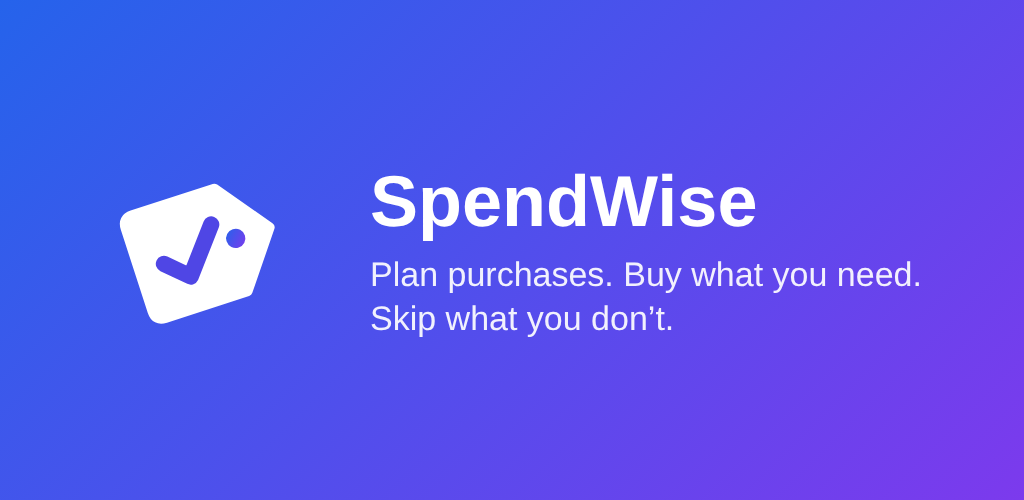
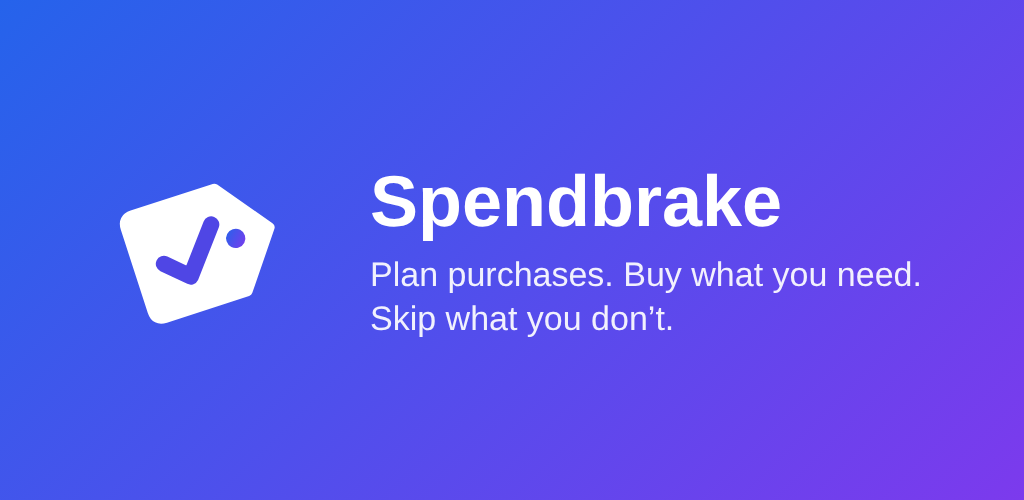
Rename app to Spendbrake
New display name, store listing, Play Store banner, privacy/terms pages
and app IDs (com.stefanvutov.spendbrake). Internal storage key kept so
existing lists survive.

Claude-Session: https://claude.ai/code/session_01WNCNd4JCbx94LhHeX1zt7i

Changed region(s): [[0.5625, 0.33, 0.7812, 0.45]]

diff --git a/src/screens/PaywallModal.tsx b/src/screens/PaywallModal.tsx
@@ -41,7 +41,7 @@ export function PaywallModal({ visible, onClose }: { visible: boolean; onClose: 
     try {
       const r = await buy(pkg);
       if (r === 'purchased') {
-        Alert.alert('Welcome to SpendWise Pro', 'Sale alerts are on. Set daily or weekly checks in Settings.');
+        Alert.alert('Welcome to Spendbrake Pro', 'Sale alerts are on. Set daily or weekly checks in Settings.');
         onClose();
       }
     } catch {
@@ -70,7 +70,7 @@ export function PaywallModal({ visible, onClose }: { visible: boolean; onClose: 
         <Pressable onPress={onClose} style={st.close} accessibilityLabel="Close">
           <Text style={st.closeText}>✕</Text>
         </Pressable>
-        <Text style={st.kicker}>SpendWise Pro</Text>
+        <Text style={st.kicker}>Spendbrake Pro</Text>
         <Text style={st.title}>Buy what you need — when it’s cheapest.</Text>
 
         {FEATURES.map(([icon, title, body]) => (
@@ -86,7 +86,7 @@ export function PaywallModal({ visible, onClose }: { visible: boolean; onClose: 
         {!forSale ? (
           <View style={st.soon}>
             <Text style={st.fTitle}>Coming soon</Text>
-            <Text style={st.fBody}>Everything else in SpendWise stays free.</Text>
+            <Text style={st.fBody}>Everything else in Spendbrake stays free.</Text>
           </View>
         ) : packages === null || busy ? (
           <ActivityIndicator style={{ marginVertical: 24 }} />
@@ -105,7 +105,7 @@ export function PaywallModal({ visible, onClose }: { visible: boolean; onClose: 
             <Button title="Restore purchases" kind="ghost" onPress={onRestore} />
             <Text style={st.legal}>
               Subscriptions renew automatically until cancelled. Cancel anytime in your{' '}
-              {Platform.OS === 'ios' ? 'App Store' : 'Google Play'} account settings at least 24 hours before the period ends. Everything else in SpendWise
+              {Platform.OS === 'ios' ? 'App Store' : 'Google Play'} account settings at least 24 hours before the period ends. Everything else in Spendbrake
               stays free.
             </Text>
             <View style={{ flexDirection: 'row', justifyContent: 'center', gap: 20 }}>

diff --git a/docs/terms.html b/docs/terms.html
@@ -1,19 +1,19 @@
 <!doctype html>
 <html lang="en"><head><meta charset="utf-8"><meta name="viewport" content="width=device-width,initial-scale=1">
-<title>SpendWise Terms of Use</title><link rel="stylesheet" href="style.css"></head>
+<title>Spendbrake Terms of Use</title><link rel="stylesheet" href="style.css"></head>
 <body>
 <h1>Terms of use</h1>
-<p class="muted">SpendWise · Last updated 26 November 2026</p>
+<p class="muted">Spendbrake · Last updated 26 November 2026</p>
 
-<h2>Using SpendWise</h2>
-<p>SpendWise helps you plan purchases. Category suggestions, “do you need it?” prompts and price information are
+<h2>Using Spendbrake</h2>
+<p>Spendbrake helps you plan purchases. Category suggestions, “do you need it?” prompts and price information are
 for guidance only. They aren't financial advice, and the decisions about what to buy are yours.</p>
 
 <h2>Price information</h2>
-<p>Prices found by SpendWise Pro come from public web search results. They can be out of date, incomplete or
+<p>Prices found by Spendbrake Pro come from public web search results. They can be out of date, incomplete or
 wrong. Always confirm the price, product and delivery costs with the retailer before you buy.</p>
 
-<h2>SpendWise Pro subscription</h2>
+<h2>Spendbrake Pro subscription</h2>
 <ul>
   <li>Pro is an optional auto-renewing subscription, billed through your App Store or Google Play account.</li>
   <li>It renews automatically unless you cancel at least 24 hours before the end of the current period. You can cancel anytime in your store account settings.</li>
@@ -23,7 +23,7 @@ wrong. Always confirm the price, product and delivery costs with the retailer be
 <p>On iOS, Apple's standard <a href="https://www.apple.com/legal/internet-services/itunes/dev/stdeula/">End User License Agreement</a> also applies.</p>
 
 <h2>Availability</h2>
-<p>We work to keep SpendWise running but can't guarantee it will always be available or error-free. The app is
+<p>We work to keep Spendbrake running but can't guarantee it will always be available or error-free. The app is
 provided “as is” to the extent the law allows.</p>
 
 <h2>Contact</h2>

diff --git a/docs/privacy.html b/docs/privacy.html
@@ -1,12 +1,12 @@
 <!doctype html>
 <html lang="en"><head><meta charset="utf-8"><meta name="viewport" content="width=device-width,initial-scale=1">
-<title>SpendWise Privacy Policy</title><link rel="stylesheet" href="style.css"></head>
+<title>Spendbrake Privacy Policy</title><link rel="stylesheet" href="style.css"></head>
 <body>
 <h1>Privacy policy</h1>
-<p class="muted">SpendWise · Last updated 26 November 2026</p>
+<p class="muted">Spendbrake · Last updated 26 November 2026</p>
 
-<p>SpendWise is a purchase planner. We built it to collect as little as possible. This policy explains what
-happens to your information in the free version and in the optional SpendWise Pro subscription.</p>
+<p>Spendbrake is a purchase planner. We built it to collect as little as possible. This policy explains what
+happens to your information in the free version and in the optional Spendbrake Pro subscription.</p>
 
 <h2>Free version</h2>
 <ul>
@@ -16,7 +16,7 @@ happens to your information in the free version and in the optional SpendWise Pr
   <li>“Search stores for this” opens a web search in your browser. That website's own privacy policy applies.</li>
 </ul>
 
-<h2>SpendWise Pro (optional subscription)</h2>
+<h2>Spendbrake Pro (optional subscription)</h2>
 <p>If you subscribe, these features need to send some information to our server:</p>
 <ul>
   <li><strong>Price checks and AI suggestions:</strong> the names, notes and target prices of the items being checked, plus the country and currency you chose, are sent to our server. Our server uses Anthropic's AI service, which searches the web for current prices. We don't send your name, email or contacts.</li>
@@ -38,7 +38,7 @@ happens to your information in the free version and in the optional SpendWise Pr
 anonymous ID, email us and we'll remove them.</p>
 
 <h2>Children</h2>
-<p>SpendWise isn't directed at children under 13, and we don't knowingly collect information from them.</p>
+<p>Spendbrake isn't directed at children under 13, and we don't knowingly collect information from them.</p>
 
 <h2>Changes</h2>
 <p>If this policy changes, we'll update this page and the date above.</p>

diff --git a/src/screens/SettingsModal.tsx b/src/screens/SettingsModal.tsx
@@ -78,7 +78,7 @@ export function SettingsModal({ visible, onClose }: { visible: boolean; onClose:
         </Section>
         ) : proForSale() ? (
           <View style={st.pro}>
-            <Text style={st.proTitle}>SpendWise Pro</Text>
+            <Text style={st.proTitle}>Spendbrake Pro</Text>
             <Text style={st.hint}>
               Automatic price checks at major stores in your country, with an alert when something on your list goes on
               sale, plus AI category suggestions. Or tap any item and use “Search stores for this”.
@@ -116,7 +116,7 @@ export function SettingsModal({ visible, onClose }: { visible: boolean; onClose:
         </Section>
 
         {__DEV__ && (
-        <Section title="Developer: server address" hint="Only shown in development builds. Enter a SpendWise server address to test Pro features.">
+        <Section title="Developer: server address" hint="Only shown in development builds. Enter a Spendbrake server address to test Pro features.">
           <TextInput
             style={st.input}
             value={settings.apiBaseUrl}

diff --git a/server/src/index.ts b/server/src/index.ts
@@ -38,7 +38,7 @@ const num = (v: unknown) => (typeof v === 'number' && Number.isFinite(v) && v >=
 async function requirePro(req: http.IncomingMessage): Promise<string> {
   const userId = str(req.headers['x-user-id'], 128);
   if (!userId) throw new HttpError(401, 'Missing user id');
-  if (!(await hasPro(userId))) throw new HttpError(402, 'SpendWise Pro subscription required', 'subscription_required');
+  if (!(await hasPro(userId))) throw new HttpError(402, 'Spendbrake Pro subscription required', 'subscription_required');
   return userId;
 }
 
@@ -141,4 +141,4 @@ const server = http.createServer(async (req, res) => {
   }
 });
 
-server.listen(PORT, () => console.log(`SpendWise server on http://localhost:${PORT}`));
+server.listen(PORT, () => console.log(`Spendbrake server on http://localhost:${PORT}`));

diff --git a/src/store.ts b/src/store.ts
@@ -126,6 +126,7 @@ export const useStore = create<State>()(
       updateSettings: (patch) => set((s) => ({ settings: { ...s.settings, ...patch } })),
     }),
     {
+      // Storage key kept from the app's working title so existing lists survive the rename.
       name: 'spendwise-v1',
       storage: createJSONStorage(() => AsyncStorage),
       version: 2,
@@ -142,7 +143,7 @@ export const useStore = create<State>()(
 );
 
 /**
- * SpendWise Pro = AI suggestions + automatic price checks. Both cost money per use, so they need
+ * Spendbrake Pro = AI suggestions + automatic price checks. Both cost money per use, so they need
  * the hosted server AND a paid unlock. Free users get everything else, fully on-device.
  * Development builds skip the payment check so the paid features can be tested.
  */

diff --git a/src/domain/types.ts b/src/domain/types.ts
@@ -101,11 +101,11 @@ export interface Settings {
   scanFrequency: ScanFrequency;
   includeInternational: boolean;
   staleThreshold: StaleThreshold;
-  /** Base URL of the SpendWise server (AI assessment + price scanning). */
+  /** Base URL of the Spendbrake server (AI assessment + price scanning). */
   apiBaseUrl: string;
   lastScanAt?: string;
   lastStaleNotifyAt?: string;
-  /** Set by the in-app purchase flow once SpendWise Pro is sold (not yet). */
+  /** Set by the in-app purchase flow once Spendbrake Pro is sold (not yet). */
   proUnlocked?: boolean;
   /** Store page where the person can cancel or change their subscription. */
   manageSubscriptionUrl?: string;

diff --git a/docs/index.html b/docs/index.html
@@ -1,8 +1,8 @@
 <!doctype html>
 <html lang="en"><head><meta charset="utf-8"><meta name="viewport" content="width=device-width,initial-scale=1">
-<title>SpendWise</title><link rel="stylesheet" href="style.css"></head>
+<title>Spendbrake</title><link rel="stylesheet" href="style.css"></head>
 <body>
-<h1>SpendWise</h1>
+<h1>Spendbrake</h1>
 <p>Plan purchases, sort needs from wants, and buy what you need when it's cheapest.</p>
 <ul>
   <li><a href="privacy.html">Privacy policy</a></li>

diff --git a/src/services/purchases.ts b/src/services/purchases.ts
@@ -4,7 +4,7 @@ import Purchases, { CustomerInfo, PurchasesPackage, PURCHASES_ERROR_CODE } from 
 import { useStore } from '../store';
 
 /**
- * SpendWise Pro subscriptions via RevenueCat, which wraps Apple's and Google's billing.
+ * Spendbrake Pro subscriptions via RevenueCat, which wraps Apple's and Google's billing.
  * Public SDK keys go in app.json → expo.extra (they're safe to ship in the app).
  * With no key set, the app runs as the free version and Pro stays hidden.
  */

diff --git a/src/services/api.ts b/src/services/api.ts
@@ -14,7 +14,7 @@ export class ApiError extends Error {
 }
 
 async function request<T>(settings: Settings, method: 'GET' | 'POST', path: string, body: unknown, timeoutMs: number): Promise<T> {
-  if (!proActive(settings)) throw new Error('SpendWise Pro not active (free mode)');
+  if (!proActive(settings)) throw new Error('Spendbrake Pro not active (free mode)');
   const controller = new AbortController();
   const timer = setTimeout(() => controller.abort(), timeoutMs);
   try {

diff --git a/src/screens/HomeScreen.tsx b/src/screens/HomeScreen.tsx
@@ -65,7 +65,7 @@ export function HomeScreen() {
   return (
     <SafeAreaView style={st.safe} edges={['top']}>
       <View style={st.header}>
-        <Text style={st.appTitle}>SpendWise</Text>
+        <Text style={st.appTitle}>Spendbrake</Text>
         <Pressable onPress={() => setSettingsOpen(true)} accessibilityLabel="Settings" hitSlop={12}>
           <Text style={st.gear}>⚙</Text>
         </Pressable>

diff --git a/server/src/entitlements.ts b/server/src/entitlements.ts
@@ -1,7 +1,7 @@
 import { PRO_PLAN } from './plans.js';
 
 /**
- * Checks with RevenueCat whether a user currently has SpendWise Pro.
+ * Checks with RevenueCat whether a user currently has Spendbrake Pro.
  * Needs REVENUECAT_SECRET_KEY (a *secret* API key from the RevenueCat dashboard, never the
  * public key used in the app). For local testing without RevenueCat, set DEV_ALLOW_ALL=1.
  */
